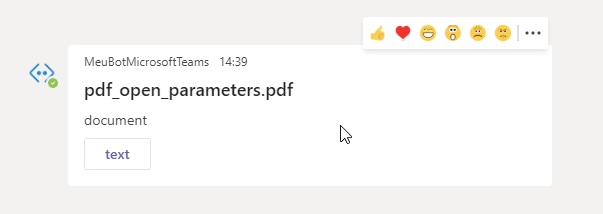
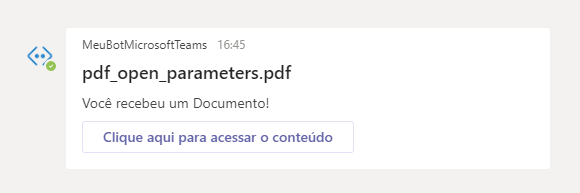
update images Microsoft Teams

diff --git a/src/img/png/import.js b/src/img/png/import.js
@@ -89,6 +89,7 @@ import textMicrosoftTeams from "./MicrosoftTeams/text.png";
 import videoMicrosoftTeams from "./MicrosoftTeams/video.png";
 import imageMicrosoftTeams from "./MicrosoftTeams/image.png";
 import weblinkMicrosoftTeams from "./MicrosoftTeams/weblink.png";
+import quickReplyMicrosoftTeams from "./MicrosoftTeams/quickReply.png";
 
 
 export const sampleImages = {
@@ -171,6 +172,7 @@ export const sampleImages = {
     weblinkMicrosoftTeams,
     carrouselMicrosoftTeams,
     chatStateMicrosoftTeams,
-    menuMicrosoftTeams
+    menuMicrosoftTeams,
+    quickReplyMicrosoftTeams
 
 };
